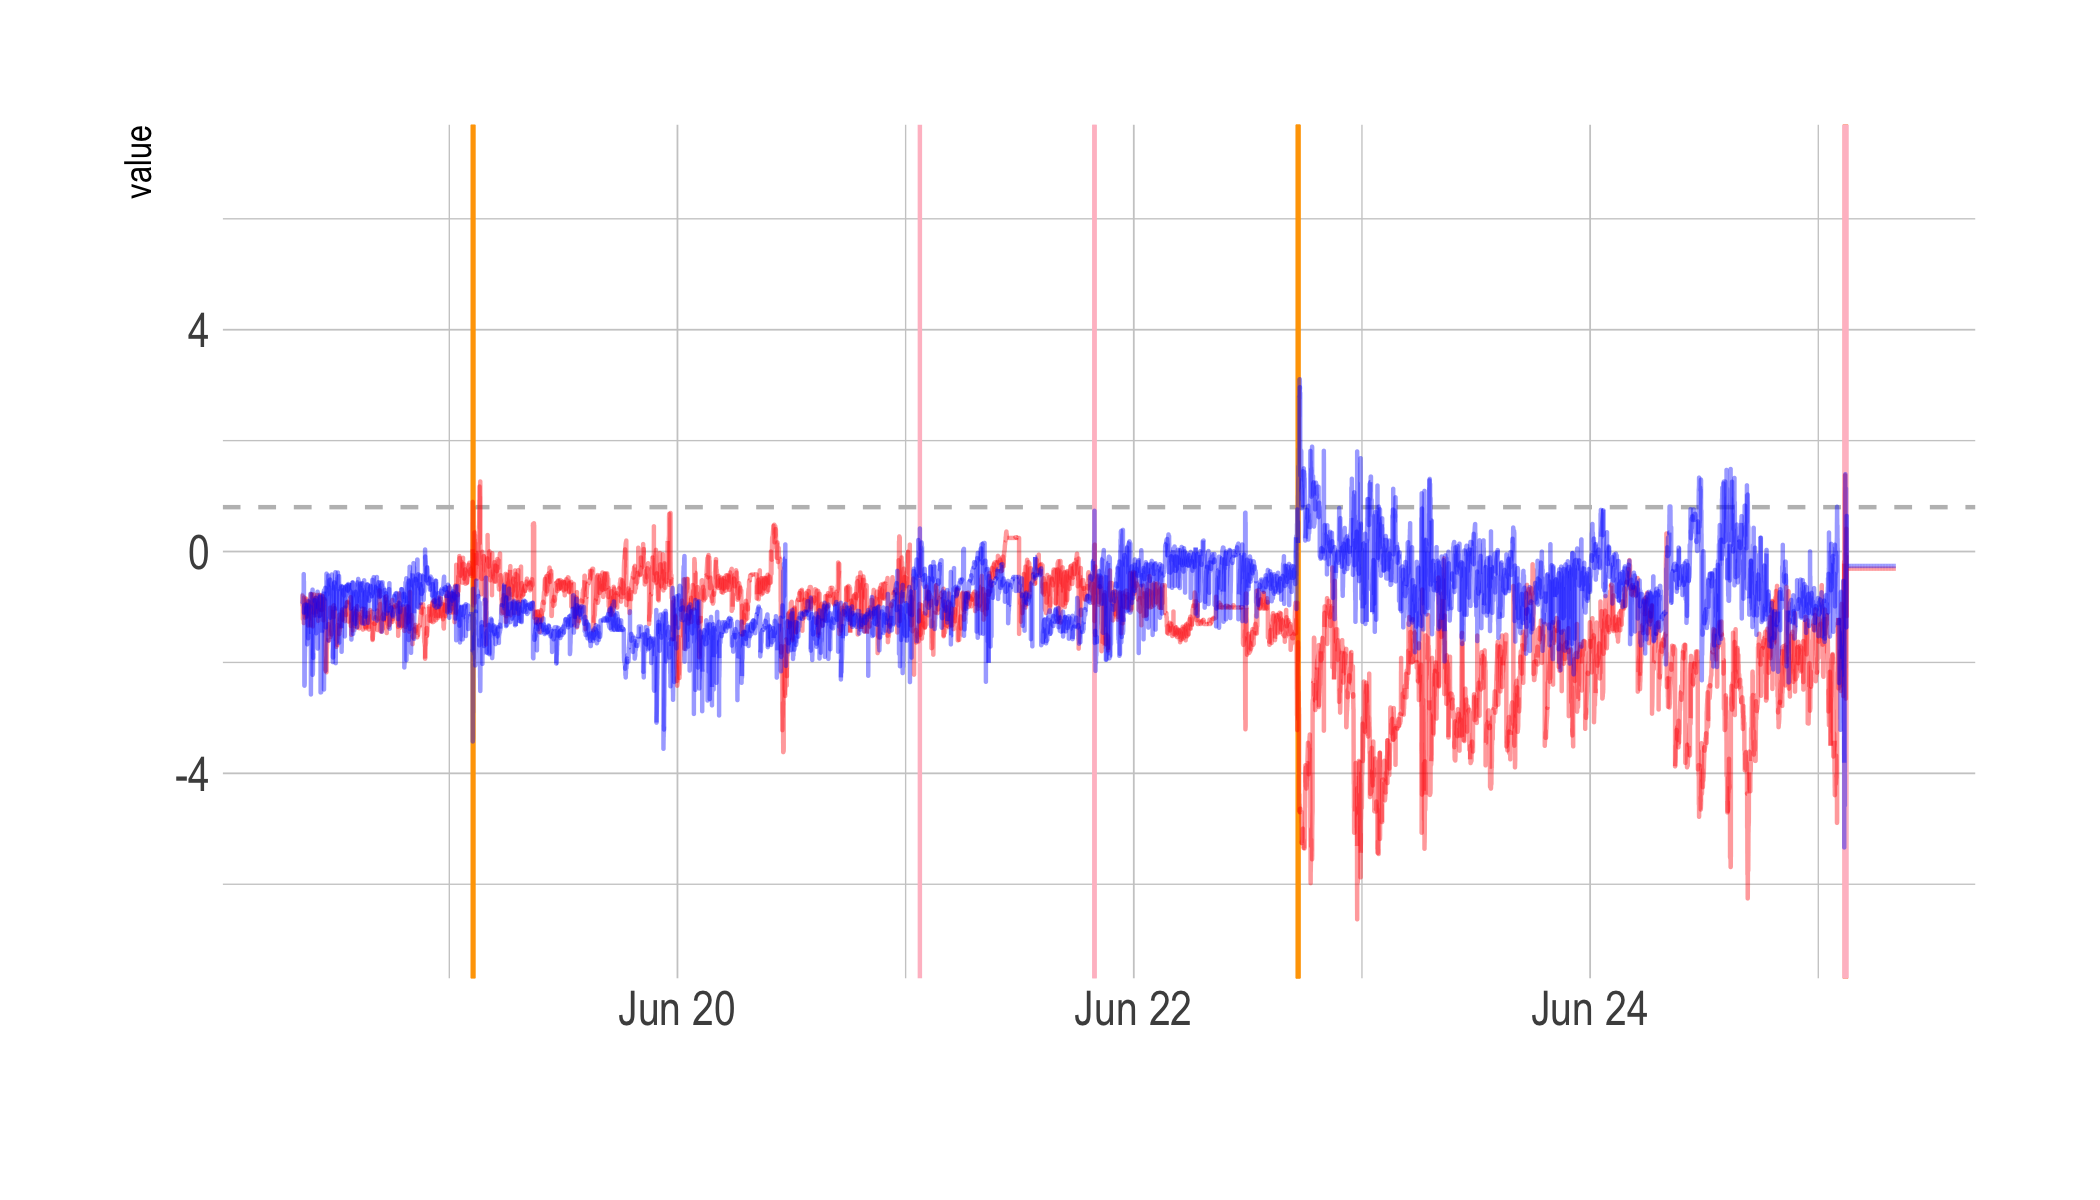
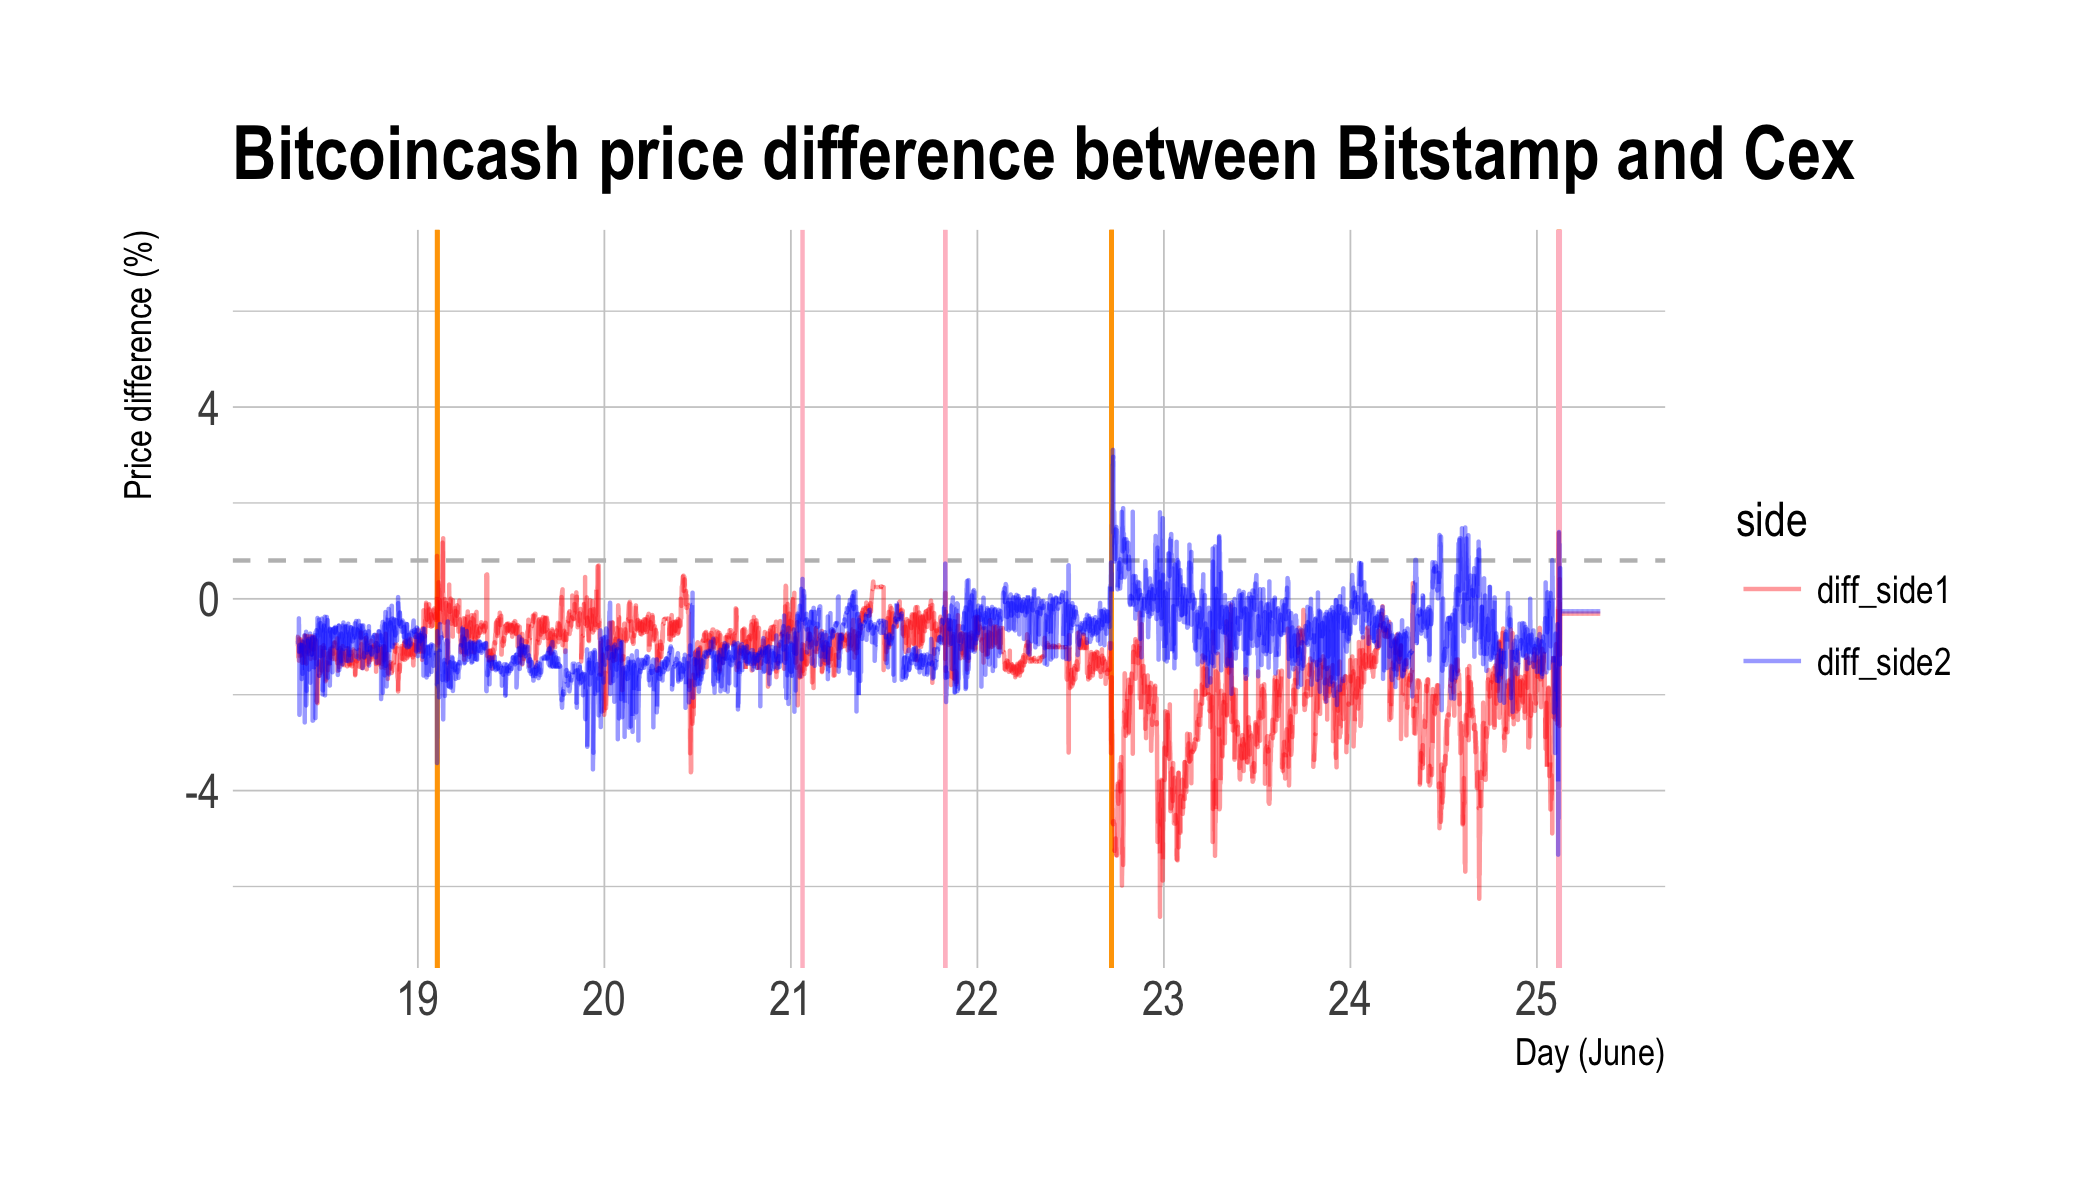
Cleaning

diff --git a/CONTENT/arbitrage.html b/CONTENT/arbitrage.html
@@ -17,7 +17,7 @@
 
 <style>
 .myheader {
-  background-image: url("https://github.com/holtzy/Cryp-To/raw/master/img/area_bitcoin_fadded_long.png");
+  background-image: url("https://github.com/holtzy/Crypto-Arbitrage/raw/master/img/area_bitcoin_fadded_long.png");
     min-height: 400px; 
     background-size: 10% 100%; !important
 
@@ -230,7 +230,7 @@ $(document).ready(function () {
 <span class="kw">library</span>(ggrepel)
 
 <span class="co"># Load result</span>
-<span class="kw">load</span>(<span class="st">&quot;~/Dropbox/CRYPTO/5_ARBITRAGE/BITSTAMP_CEX/arbitrage_bitstamp_cex_BCHEUR_18Jun.Rdata&quot;</span>)
+<span class="kw">load</span>(<span class="kw">url</span>(<span class="st">&quot;https://raw.githubusercontent.com/holtzy/Crypto-Arbitrage/master/DATA/arbitrage_bitstamp_cex_BCHEUR_18Jun.Rdata&quot;</span>))
 bilan[,<span class="op">-</span><span class="kw">which</span>(<span class="kw">colnames</span>(bilan)<span class="op">%in%</span><span class="kw">c</span>(<span class="st">&quot;transaction&quot;</span>, <span class="st">&quot;rebalance&quot;</span>))]=<span class="st"> </span><span class="kw">apply</span>( bilan[,<span class="op">-</span><span class="kw">which</span>(<span class="kw">colnames</span>(bilan)<span class="op">%in%</span><span class="kw">c</span>(<span class="st">&quot;transaction&quot;</span>, <span class="st">&quot;rebalance&quot;</span>))], <span class="dv">2</span>, as.numeric ) <span class="op">%&gt;%</span><span class="st"> </span><span class="kw">as.tibble</span>()
 bilan<span class="op">$</span>time=<span class="kw">as.POSIXct</span>( bilan<span class="op">$</span>time, <span class="dt">origin=</span><span class="st">&quot;1970-01-01&quot;</span>)
 
@@ -335,7 +335,7 @@ bilan <span class="op">%&gt;%</span>
 col_blue &lt;-<span class="st"> </span><span class="kw">rgb</span>(<span class="dv">0</span><span class="op">/</span><span class="dv">255</span>, <span class="dv">0</span><span class="op">/</span><span class="dv">255</span>, <span class="dv">255</span><span class="op">/</span><span class="dv">255</span>, <span class="fl">0.4</span>)
 
 <span class="co"># Plot price differences and arbitrage occurence</span>
-p &lt;-bilan <span class="op">%&gt;%</span>
+p &lt;-<span class="st"> </span>bilan <span class="op">%&gt;%</span>
 <span class="st">  </span><span class="kw">mutate</span>(<span class="dt">vline_transac=</span><span class="kw">ifelse</span>(transaction<span class="op">==</span><span class="st">&quot;yes&quot;</span> <span class="op">&amp;</span><span class="st"> </span>rebalance<span class="op">==</span><span class="st">&quot;no&quot;</span>, time, <span class="ot">NA</span>)) <span class="op">%&gt;%</span>
 <span class="st">  </span><span class="kw">mutate</span>(<span class="dt">vline_rebalance=</span><span class="kw">ifelse</span>(transaction<span class="op">==</span><span class="st">&quot;yes&quot;</span> <span class="op">&amp;</span><span class="st"> </span>rebalance<span class="op">==</span><span class="st">&quot;yes&quot;</span>, time, <span class="ot">NA</span>)) <span class="op">%&gt;%</span>
 <span class="st">  </span><span class="kw">mutate</span>(<span class="dt">vline_transac=</span><span class="kw">as.POSIXct</span>(vline_transac, <span class="dt">origin=</span><span class="st">&quot;1970-01-01&quot;</span>)) <span class="op">%&gt;%</span>
@@ -350,10 +350,12 @@ p &lt;-bilan <span class="op">%&gt;%</span>
 <span class="st">    </span><span class="kw">geom_vline</span>( <span class="kw">aes</span>(<span class="dt">xintercept=</span>vline_rebalance), <span class="dt">color=</span><span class="st">&quot;pink&quot;</span>) <span class="op">+</span>
 <span class="st">    </span><span class="kw">geom_line</span>() <span class="op">+</span>
 <span class="st">    </span><span class="kw">scale_color_manual</span>(<span class="dt">values=</span><span class="kw">c</span>(col_red, col_blue)) <span class="op">+</span>
-<span class="st">    </span><span class="kw">xlab</span>(<span class="st">&quot;&quot;</span>) <span class="op">+</span>
 <span class="st">    </span><span class="kw">theme_ipsum</span>() <span class="op">+</span>
 <span class="st">    </span><span class="kw">ylim</span>(<span class="op">-</span><span class="dv">7</span>,<span class="dv">7</span>) <span class="op">+</span>
-<span class="st">    </span><span class="kw">theme</span>(<span class="dt">legend.position=</span><span class="st">&quot;none&quot;</span>) 
+<span class="st">    </span><span class="kw">ylab</span>(<span class="st">&quot;Price difference (%)&quot;</span>) <span class="op">+</span>
+<span class="st">    </span><span class="kw">xlab</span>(<span class="st">&quot;Day (June)&quot;</span>) <span class="op">+</span>
+<span class="st">    </span><span class="kw">ggtitle</span>(<span class="kw">paste0</span>(<span class="st">&quot;Bitcoincash price difference between Bitstamp and Cex&quot;</span>)) <span class="op">+</span>
+<span class="st">    </span><span class="kw">scale_x_datetime</span>(<span class="dt">date_breaks =</span> <span class="st">&quot;1 day&quot;</span>, <span class="dt">date_labels =</span> <span class="st">&quot;%d&quot;</span>, <span class="dt">minor_breaks=</span><span class="ot">NULL</span>) 
 
 p</code></pre></div>
 <p><img src="arbitrage_files/figure-html/unnamed-chunk-2-1.png" width="960" /></p>
@@ -410,11 +412,9 @@ c <span class="op">+</span><span class="st"> </span>d <span class="op">+</span><
 <p>So basically, when the bot find that <span class="cex">Cex.io</span> is significantly cheaper than <span class="bitstamp">Bitstamp</span> (first break), it buys crypto on <span class="cex">Cex.io</span> and sells some on <span class="bitstamp">Bitstamp</span>. Thus the Bitstamp amount of euro increases and the Bitstamp amount of crypto increases. Conversely for <span class="cex">Cex.io</span>.</p>
 <h1 id="did-it-make-money">Did it make money?</h1>
 <hr />
-<aside style="float: right; margin-right: -170px; width: 150px; color: grey;">
 This content will appear in the gutter of the article.
 </aside>
 <p>At each transaction the bot is supposed to make a tiny margin, thus the total quantity of euro is suppose to slowly increase. Indeed, the process started with 206.88 and finished with 210, what is a gain of 3.12.</p>
-<p><link rel="stylesheet" href="tufte.css"/> <label for="mn-demo" class="margin-toggle">⊕</label> <input type="checkbox" id="mn-demo" class="margin-toggle"/> <span class="marginnote"> This is a margin note. Notice there isn’t a number preceding the note. </span></p>
 <div class="sourceCode"><pre class="sourceCode r"><code class="sourceCode r"><span class="co"># Zoom on the total quantity of euro I have</span>
 p &lt;-<span class="st"> </span>bilan <span class="op">%&gt;%</span>
 <span class="st">  </span><span class="kw">ggplot</span>(<span class="kw">aes</span>(<span class="dt">x=</span>time, <span class="dt">y=</span>total_euro)) <span class="op">+</span>
